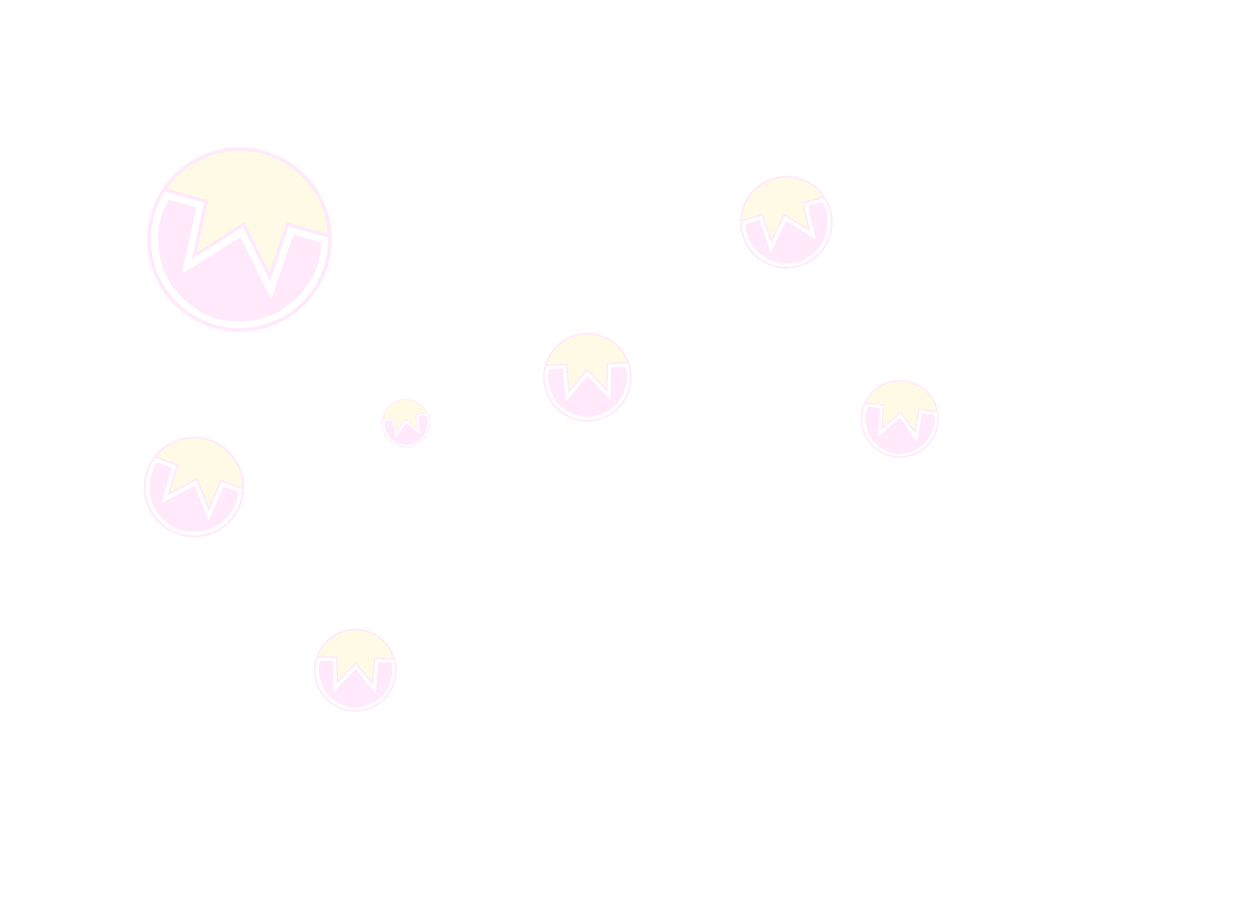
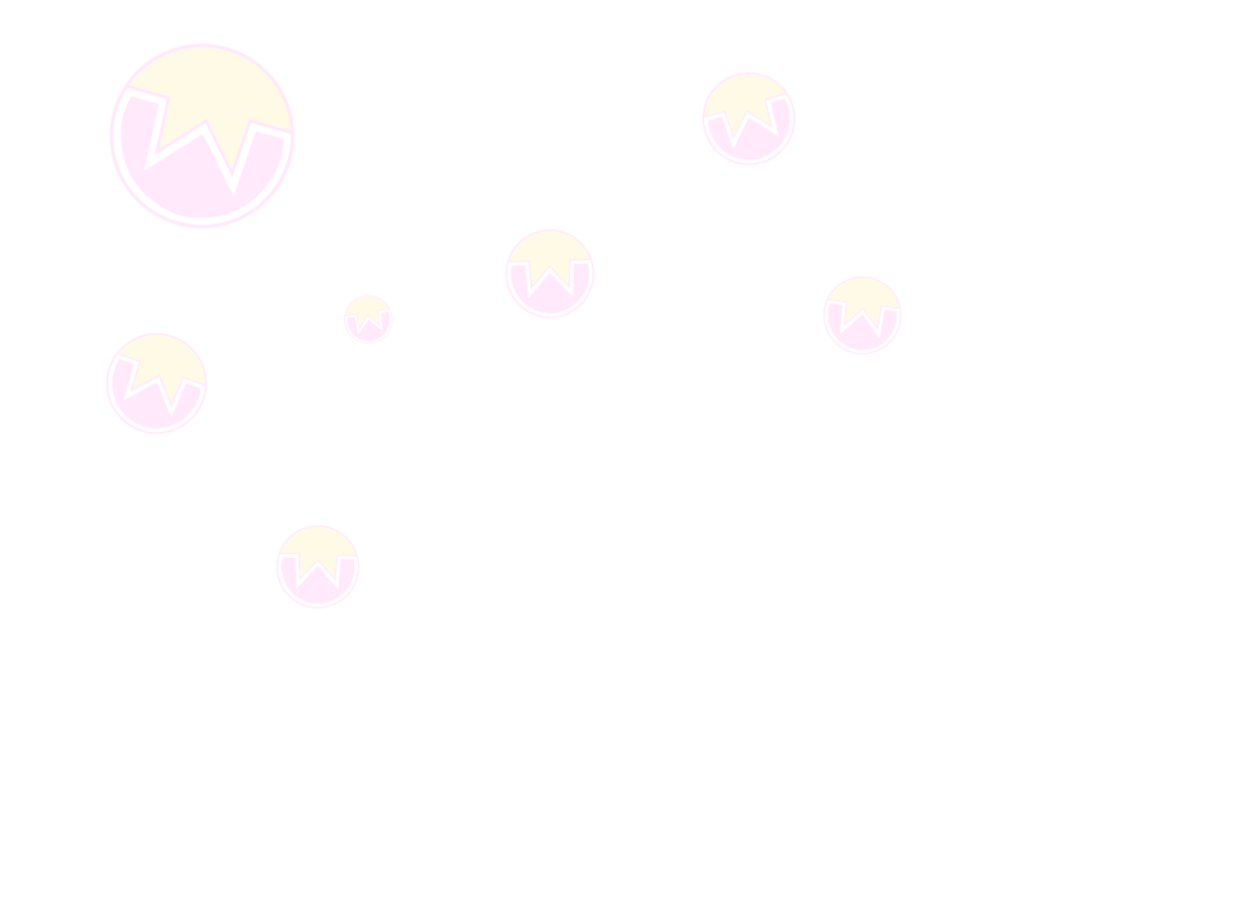
update graphics

diff --git a/src/renderer/assets/wow.css b/src/renderer/assets/wow.css
@@ -88,7 +88,7 @@ html {
 }
 
 body {
-    background: url("~@/assets/background.png") 0 0;
+    background: url("~@/assets/background2.png") 0 0;
     font-family: -apple-system,BlinkMacSystemFont,Segoe UI,Roboto,Helvetica Neue,Arial,sans-serif;
 }
 
@@ -896,7 +896,7 @@ main.credits ul, main.landing ul, main.create-wallet-seed ul {
     width: 100%;
     position: fixed;
     bottom: 0;
-    height: 200px;
+    height: 170px;
     z-index: 666;
 }
 
@@ -931,9 +931,8 @@ main.credits ul, main.landing ul, main.create-wallet-seed ul {
 }
 
 .wario_seq .wario_walking_animated .wario_walking {
-    background-image: url("~@/assets/wariorunningcropped.gif");
+    background-image: url("~@/assets/dog.gif");
     background-position-x: 0;
-    -webkit-transform: scaleX(-1);
     background-size: contain;
     background-repeat: no-repeat;
     height: 138px;
@@ -950,24 +949,24 @@ main.credits ul, main.landing ul, main.create-wallet-seed ul {
     position: absolute;
 }
 
-.wario_seq .perlsux {
-    background-image: url("~@/assets/perl_forbidden.png");
+.wario_seq .hypnotoad {
+    background-image: url("~@/assets/hypnotoad.gif");
     background-position-x: 0;
     background-size: contain;
     background-repeat: no-repeat;
     position: absolute;
-    width: 100px;
-    height: 100px;
-    right: 40px;
-    bottom: 40px;
+    width: 200px;
+    height: 145px;
+    right: 100px;
+    bottom: 5px;
     z-index: 666;
 }
 
-main.credits .perlsux {
+main.credits .hypnotoad {
     cursor: pointer;
 }
 
-main.credits .perlsux:hover {
+main.credits .hypnotoad:hover {
     transform: rotate(10deg);
 }
 
@@ -1012,9 +1011,8 @@ main.landing .wario_seq .grassfill .author {
 }
 
 .wario_seq .wario_standing_animated .wario_standing {
-    background-image: url("~@/assets/wariostanding.gif");
+    background-image: url("~@/assets/dog2.gif");
     background-position-x: 0;
-    -webkit-transform: scaleX(-1);
     background-size: contain;
     background-repeat: no-repeat;
     height: 138px;
@@ -1027,9 +1025,9 @@ main.landing .wario_seq .grassfill .author {
     background-size: contain;
     background-repeat: no-repeat;
     width: 164px;
-    height: 50px;
+    height: 35px;
     position: absolute;
-    left: 80px;
+    left: 130px;
     top: 4px;
 }
 

diff --git a/src/renderer/components/Landing/WarioLanding.vue b/src/renderer/components/Landing/WarioLanding.vue
@@ -10,7 +10,7 @@
             <div class="coin" style="height: 24px;width: 24px;top:54px;right:32px;"></div>
         </div>
 
-        <div class="perlsux"></div>
+        <div class="hypnotoad"></div>
 
         <div class="grass_container">
             <div class="grass"></div>
@@ -46,7 +46,7 @@
             function wario_animate(){
                 wario.animate({
                     left: `${window_width}px`
-                }, 8000, 'linear', () => {
+                }, 8500, 'linear', () => {
                     wario.css('left', '-400px');
                     wario_animate();
                 });

diff --git a/src/renderer/components/Landing/WarioSettings.vue b/src/renderer/components/Landing/WarioSettings.vue
@@ -10,7 +10,7 @@
             <div class="coin" style="height: 24px;width: 24px;top:54px;right:32px;"></div>
         </div>
 
-        <div class="perlsux"></div>
+        <div class="hypnotoad"></div>
 
         <div class="grass_container">
             <div class="grass"></div>
@@ -34,7 +34,7 @@
             }
         },
         mounted() {
-            jQuery('main.credits .perlsux').click((event) => {
+            jQuery('main.credits .hypnotoad').click((event) => {
                 this.back();
             });
         },

diff --git a/src/renderer/components/Landing/EnterPassword.vue b/src/renderer/components/Landing/EnterPassword.vue
@@ -51,7 +51,7 @@
             }
         },
         mounted() {
-            jQuery('main.credits .perlsux').click((event) => {
+            jQuery('main.credits .hypnotoad').click((event) => {
                 this.back();
             });
             jQuery('#password').focus();

diff --git a/src/renderer/components/Landing/Credits.vue b/src/renderer/components/Landing/Credits.vue
@@ -102,7 +102,7 @@
             }
         },
         mounted() {
-            jQuery('main.credits .perlsux').click((event) => {
+            jQuery('main.credits .hypnotoad').click((event) => {
                 this.back();
             });
         },
